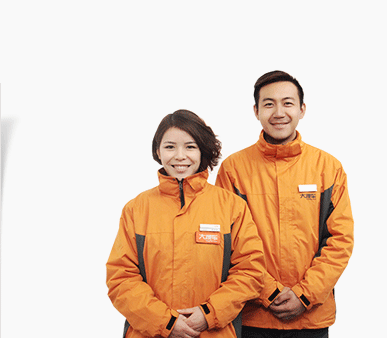
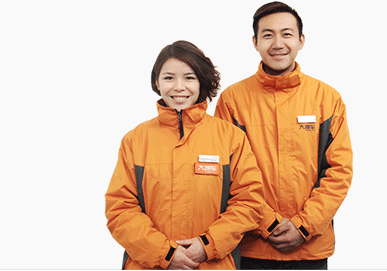
mylist

diff --git a/assets/css/mylist.less b/assets/css/mylist.less
@@ -319,7 +319,7 @@ vertical-align: -1px;
     padding-top:30px;
   }
   .person-bg{
-    background:#f9f9f9 url(../images/index/qiugou-container.png?123) no-repeat;
+    background:#f9f9f9 url(../images/index/qiugou-container.png?124) no-repeat;
     background-position: bottom;
     position: absolute;
     bottom: 0;
@@ -373,14 +373,21 @@ vertical-align: -1px;
   }
   
   .form{
-    
-    
     z-index:5;
     width: 801px;
     padding-bottom: 40px;
     background-color: #fff;
     border: 1px solid #e5e5e5;
     border-bottom: none;
+    .shadow{
+      width: 22px;
+      height: 136px;
+      position: absolute;
+      top: 105px;
+      right: 366px;
+      background: url(../images/index/shadow.png?123) no-repeat 0 0;
+      z-index: 200;
+    }
     .form-inner{
      margin-left: 50px;
      margin-top: 20px;

diff --git a/assets/css/mylist.css b/assets/css/mylist.css
@@ -329,7 +329,7 @@ a:hover {
   padding-top: 30px;
 }
 #mylist .qiugou .person-bg {
-  background: #f9f9f9 url(../images/index/qiugou-container.png?123) no-repeat;
+  background: #f9f9f9 url(../images/index/qiugou-container.png?124) no-repeat;
   background-position: bottom;
   position: absolute;
   bottom: 0;
@@ -387,6 +387,15 @@ a:hover {
   background-color: #fff;
   border: 1px solid #e5e5e5;
   border-bottom: none;
+}
+#mylist .qiugou .form .shadow {
+  width: 22px;
+  height: 136px;
+  position: absolute;
+  top: 105px;
+  right: 366px;
+  background: url(../images/index/shadow.png?123) no-repeat 0 0;
+  z-index: 200;
 }
 #mylist .qiugou .form .form-inner {
   margin-left: 50px;

diff --git a/assets/css/sidebar.css b/assets/css/sidebar.css
@@ -125,6 +125,7 @@
   position: fixed;
   right: 0px;
   bottom: 200px;
+  z-index: 1000;
 }
 #my-advisor img {
   display: block;
@@ -194,7 +195,7 @@
   right: 0px;
   bottom: 20px;
   border: 1px solid #dedede;
-  z-index: 1000;
+  z-index: 1001;
   background-color: #F2F2F2;
 }
 .sidebar .side-box {
